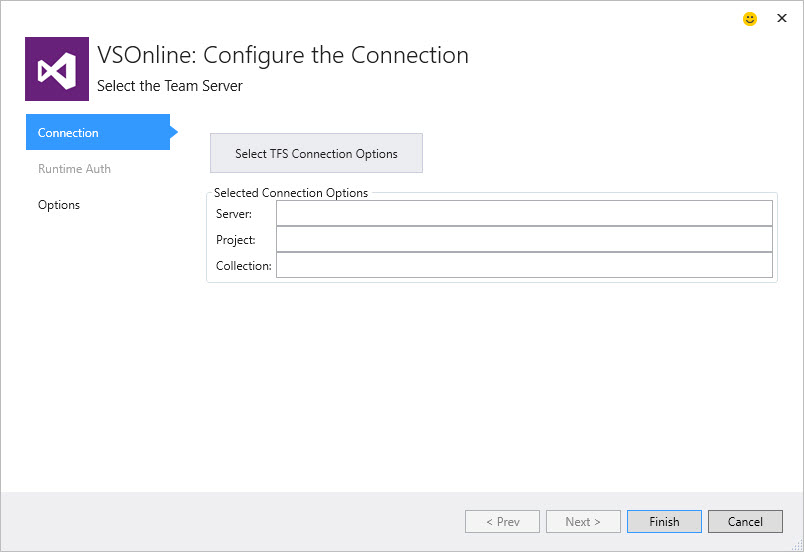
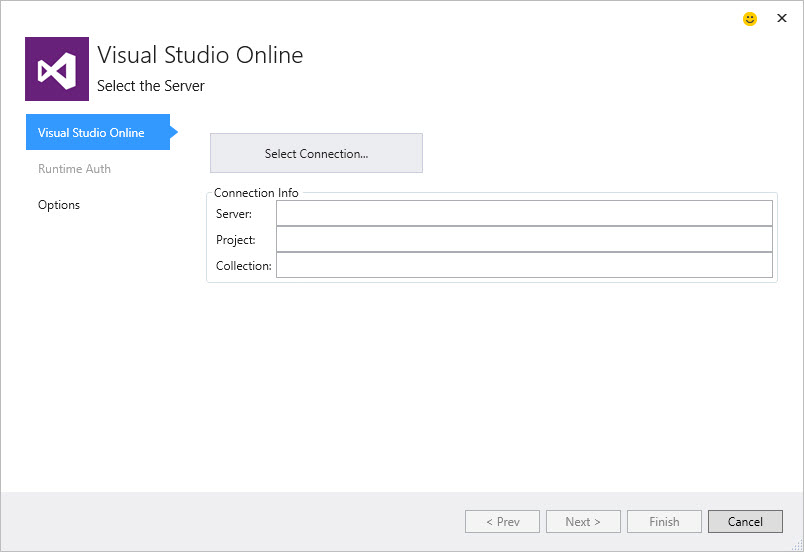
Doc Updates for branding changes

diff --git a/Docs/ReadMe.md b/Docs/ReadMe.md
@@ -7,10 +7,10 @@ This Connected Service is currently just a sample to illustrate how to pull data
 
 ##State of the Connected Service##
 ###REST APIs###
-Visual Studio Online has been moving away from using the TFSClient sdk as we think of it today. They're in the process of expanding their REST APIs, and I got an early sample to illustrate the REST usage. 
+Visual Studio Online has been improving their API access to include REST. This Connected Service includes an early sample to illustrate the REST usage. 
 
 - The current version simply provides ReadOnly access to WorkItems
-- Is limited to ServiceAccount auth scenarios that require a UserName/Password in your project. 
+- Is limited to ServiceAccount Auth scenarios that require a UserName/Password in your project. 
 
 ##Code Contributions##
 I do hope to improve upon this Connected Service. If you have an interest in spending more time, please feel free to create a fork and make a pull request. 
